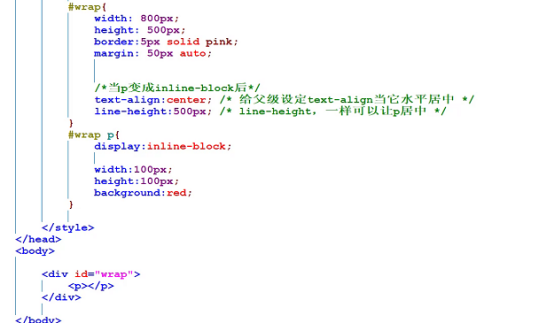
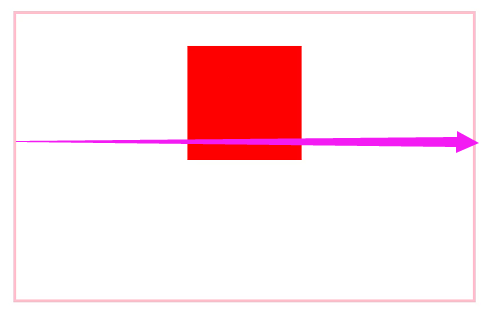
HTML+CSS 第11节

Changed region(s): [[0.0, 0.0, 0.9736, 1.0]]

diff --git a/html+css/12、vertical-align、常用垂直居中.md b/html+css/12、vertical-align、常用垂直居中.md
@@ -135,5 +135,22 @@
 
 1、行高实现垂直居中
 
+    #wrap {
+        width: 800px;
+        height: 500px;
+        border: 5px solid red;
+        margin: 50px auto;
+    }
+    #wrap p {
+        display: inline-block;
+        width: 100px;
+        height: 100px;
+        background-color: red;
+    }
+    
+    <div id='wrap'>
+        <p></p>
+    </div>
+    
 ![Alt text](./imgs/12-09.png)
 
